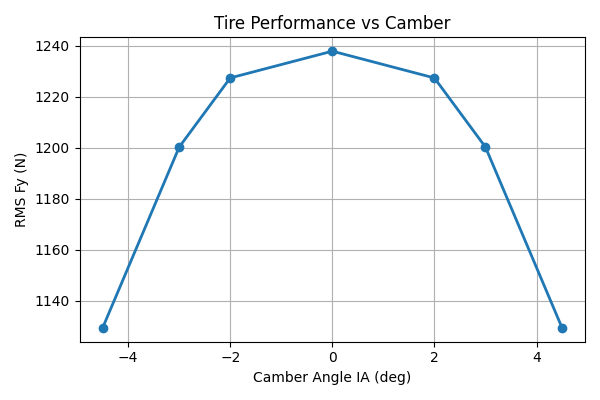
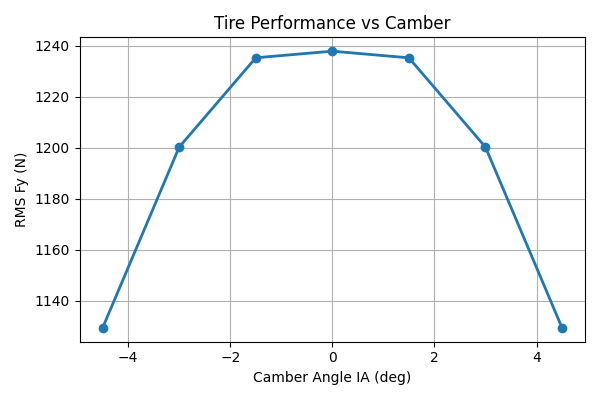
update data

Changed region(s): [[0.3, 0.12, 0.81, 0.36]]

diff --git a/tire/wheel.py b/tire/wheel.py
@@ -196,8 +196,8 @@ def plot_vehicle_friction_circle(Fz_per_tire=800, alpha_lim=10, kappa_lim=1, res
     # 順便把所有計算點以極淡的灰色點點點畫出來，方便你檢查邊界是否完美貼合
     ax3.scatter(points[:, 0], points[:, 1], s=1, color='gray', alpha=0.3, label='Calculated Points')
     
-    ax3.set_xlabel('Total Longitudinal accele $a_x$ [N]', fontsize=11)
-    ax3.set_ylabel('Total Lateral accele $a_y$ [N]', fontsize=11)
+    ax3.set_xlabel('Total Longitudinal accele $a_x$ [g]', fontsize=11)
+    ax3.set_ylabel('Total Lateral accele $a_y$ [g]', fontsize=11)
     ax3.set_title(f'Vehicle Friction Limit Box\n(Total Fz = {Fz_per_tire*4} N)', fontsize=13)
     ax3.grid(True, linestyle=':', alpha=0.6)
     ax3.axis('equal')

diff --git a/tire/Tire_camber_pressure/Tire_camber.py b/tire/Tire_camber_pressure/Tire_camber.py
@@ -31,7 +31,7 @@ IA = 0.0
 # 固定最佳胎壓 (上一章分析結果)
 pressure = tire_info.Tire_Pressure
 
-IA_list = [-4.5,-3,-2,0,2,3,4.5]
+IA_list = [-4.5,-3,-1.5,0,1.5,3,4.5]
 
 colors = [
     "red",
